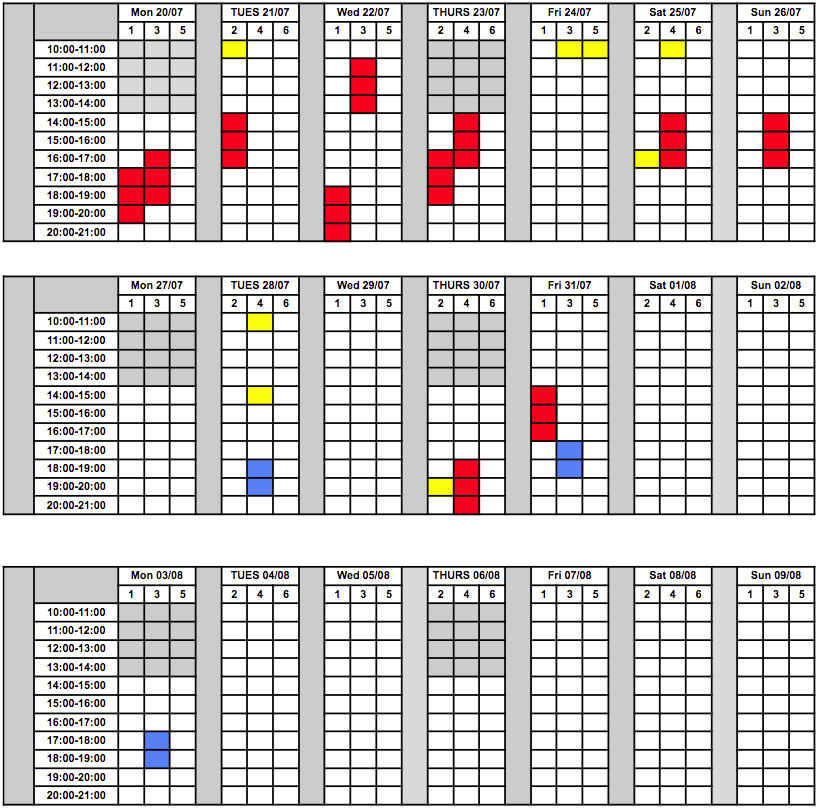
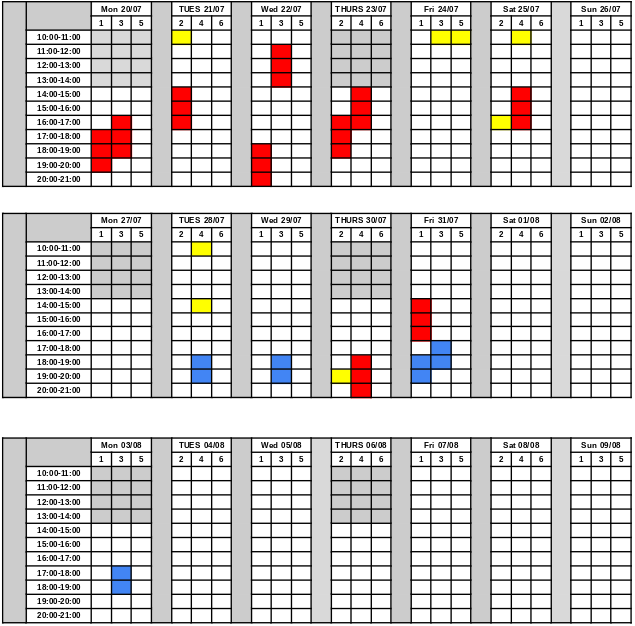
Update for launch

Changed region(s): [[0.0, 0.3339, 1.0, 0.6374], [0.0, 0.6981, 1.0, 1.0], [0.0, 0.0, 1.0, 0.3035]]

diff --git a/index.html b/index.html
@@ -56,48 +56,84 @@
                 <div class="fixture">
                     <div class="key">
                         <p class="uppercase">
-                            Weds 22/07 6.00pm
+                            Tues 28/07 6.00pm
                         </p>
                     </div>
                     <div class="value">
                         <p>
-                            P.Cook & J.Hunter v A.Waite & J.Cremin - League A
+                            L.Vizor v R.Spill - Men's Singles 1st round
                         </p>
                     </div>
                 </div>
                 <div class="fixture">
                     <div class="key">
                         <p class="uppercase">
-                            Thurs 23/07 2.30pm
+                            Wed  29/07 6.30pm
                         </p>
                     </div>
                     <div class="value">
                         <p>
-                            T.Rogers & T.Packham v J.Stout & P.Bunce (reserve) - League A
+                            M.Davis v J.Stout - Open Singles Prelim
+                        </p>
+                    </div>
+                </div>
+                 <div class="fixture">
+                    <div class="key">
+                        <p class="uppercase">
+                            Thurs 30/07 5.30pm
+                        </p>
+                    </div>
+                    <div class="value">
+                        <p>
+                            M.Davis & F.Waite v L.Vizor & G.Jones - Pairs League B
                         </p>
                     </div>
                 </div>
                 <div class="fixture">
                     <div class="key">
                         <p class="uppercase">
-                            Thurs 23/07 4.00pm
+                            Fri 31/07
                         </p>
                     </div>
                     <div class="value">
                         <p>
-                            P.Dawson & B.Salter v G.Shakespeare & J.Staley League B
+                            J.Stout & G.Newman v J.Shakespeare & J.Woodhead - Pairs League A
                         </p>
                     </div>
                 </div>
                 <div class="fixture">
                     <div class="key">
                         <p class="uppercase">
-                            Sun 26/07 2.30pm
+                            Fri 31/07 TBC
                         </p>
                     </div>
                     <div class="value">
                         <p>
-                            G.Charman & A.Harrison v F.Waite & G.Keating - League B
+                            P.Dawson v O.Moody - Men's Singles Prelim
+                        </p>
+                    </div>
+                </div>
+                 <div class="fixture">
+                    <div class="key">
+                        <p class="uppercase">
+                            Fri 31/07 5.30pm
+                        </p>
+                    </div>
+                    <div class="value">
+                        <p>
+                            J.Cremin v M.Salter - Open Singles Prelim
+                        </p>
+                    </div>
+                </div>
+                 <div class="fixture">
+                    <div class="key">
+                        <p class="uppercase">
+                            Sun 02/08 10.00am
+                        </p>
+                    </div>
+                    <div class="value">
+                        <p>
+                            M.Salter v G.Shakespeare - Men's Singles 1st Round
                         </p>
                     </div>
                 </div>

diff --git a/mens-singles.html b/mens-singles.html
@@ -76,20 +76,42 @@
                         </h3>
                     </div>
                 </div>
-                <div class="fixture">
+                 <div class="fixture">
                     <div class="key">
                         <p class="uppercase">
-                            Fri 31/07 Time TBC
+                            Tues 28/07 6.00pm
                         </p>
                     </div>
                     <div class="value">
                         <p>
-                            O.Moody v P.Dawson - Men's Singles prelim
+                            L.Vizor v R.Spill - 1st Round
                         </p>
                     </div>
                 </div>
-                
-                
+                 <div class="fixture">
+                    <div class="key">
+                        <p class="uppercase">
+                            Fri 31/07 TBC
+                        </p>
+                    </div>
+                    <div class="value">
+                        <p>
+                            P.Dawson v O.Moody - Prelim
+                        </p>
+                    </div>
+                </div>
+                 <div class="fixture">
+                    <div class="key">
+                        <p class="uppercase">
+                            Sun 02/08 10.00am
+                        </p>
+                    </div>
+                    <div class="value">
+                        <p>
+                            M.Salter v G.Shakespeare - 1st Round
+                        </p>
+                    </div>
+                </div>
             </div>
             <div class="col-md-8 bg-color-whats-happening section-column">
                 <h4 class="mens-singles-heading uppercase">

diff --git a/pairs-leagues.html b/pairs-leagues.html
@@ -65,18 +65,30 @@
                 <div class="fixture">
                     <div class="key">
                         <p class="uppercase">
-                            Sun 26/07 2.30pm
+                            Thurs 30/07 5.30pm
                         </p>
                     </div>
                     <div class="value">
                         <p>
-                            G.Charman & A.Harrison v F.Waite & G.Keating - League B
+                            M.Davis & F.Waite v L.Vizor & G.Jones - League B
+                        </p>
+                    </div>
+                </div>
+                 <div class="fixture">
+                    <div class="key">
+                        <p class="uppercase">
+                            Fri 31/07 2.30pm
+                        </p>
+                    </div>
+                    <div class="value">
+                        <p>
+                            J.Stout & G.Newman v J.Shakespeare & J.Woodhead - League A
                         </p>
                     </div>
                 </div>
                 <h3 class="this-weeks-games uppercase">
                             Recent results
-                        </h3>
+                </h3>
                 <div class="fixture">
                     <div class="key">
                         <p class="uppercase">

diff --git a/open-singles.html b/open-singles.html
@@ -79,6 +79,18 @@
                 <div class="fixture">
                     <div class="key">
                         <p class="uppercase">
+                            Wed  29/07 6.30pm
+                        </p>
+                    </div>
+                    <div class="value">
+                        <p>
+                            M.Davis v J.Stout - Open Singles Prelim
+                        </p>
+                    </div>
+                </div>
+                <div class="fixture">
+                    <div class="key">
+                        <p class="uppercase">
                             Fri 31/07 5.30pm
                         </p>
                     </div>
